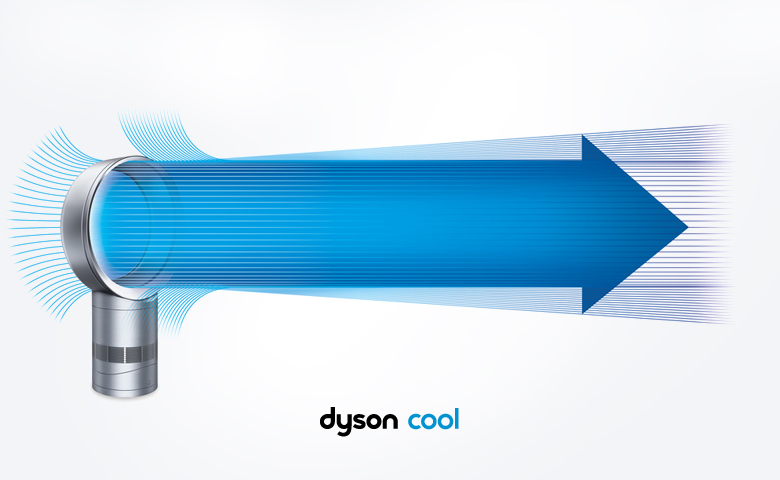
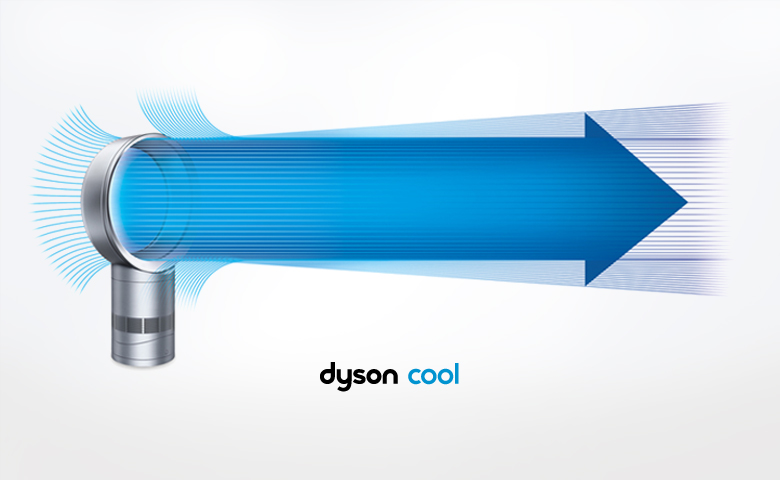
Updated fans index carousel slide image and added call to action.

Changed region(s): [[0.0, 0.1875, 0.9231, 0.8438], [0.4, 0.8438, 0.5846, 0.9062], [0.4, 0.75, 0.5846, 0.8125]]

diff --git a/app/styles/_carousel.scss b/app/styles/_carousel.scss
@@ -34,8 +34,7 @@
             top:41%;
         }
         .carousel-indicators {
-            margin-top:20px;
-            margin-bottom:0px; 
+            margin-bottom:-10px;
 
                 li {
                     background-color:transparent;
@@ -95,13 +94,12 @@
                         margin:190px auto 110px;
                         width: 360px;
                     }
-                    .dbutton {
-                    }
             }
             &.air-multiplier {
                 width:100%;
+                text-align: center;
                     h1 {
-                        margin:340px auto 0;
+                        margin:300px auto 50px;
                         width:415px;
                     }
             }

diff --git a/app/views/main.html b/app/views/main.html
@@ -69,6 +69,9 @@
                     <img src="../images/index/hero_2.jpg" alt="Air Multiplier">
                     <div class="air-multiplier content">
                         <h1>{{ 'INDEX.AIR_MULTIPLIER_HEADLINE' | translate }}</h1>
+                        <a class="dbutton darkgrey" href="#/fans-and-heaters">
+                            {{ 'INDEX.DC62_CAROUSEL_BUTTON' | translate }}
+                        </a>
                     </div>
                 </div>
               </div>
